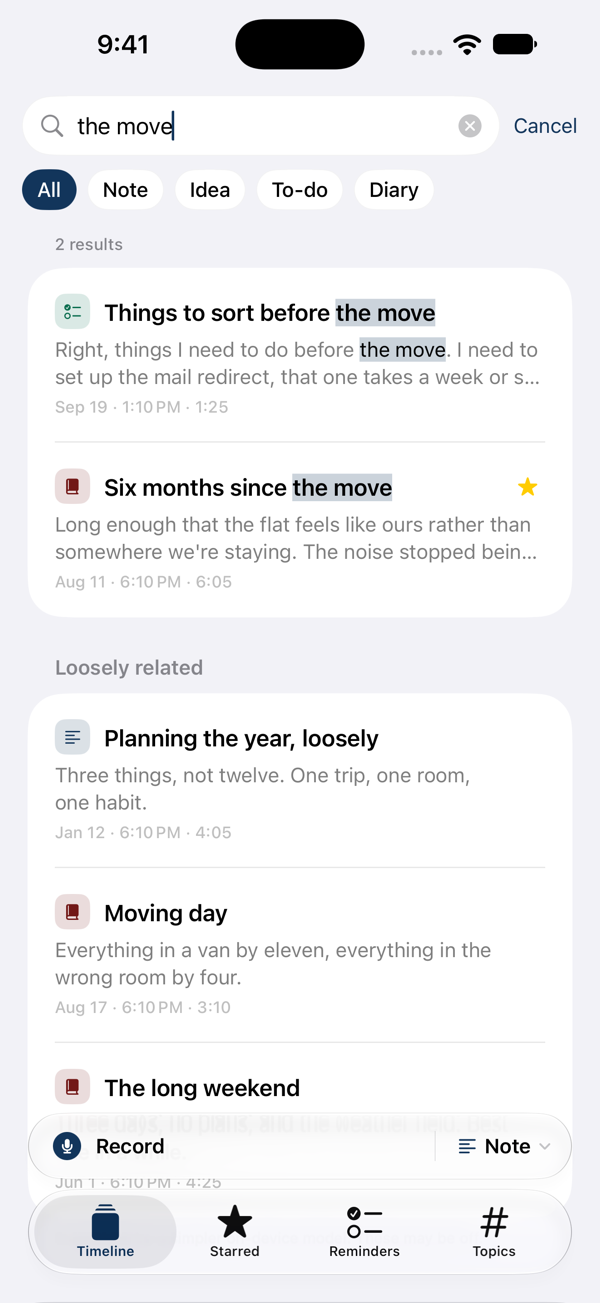
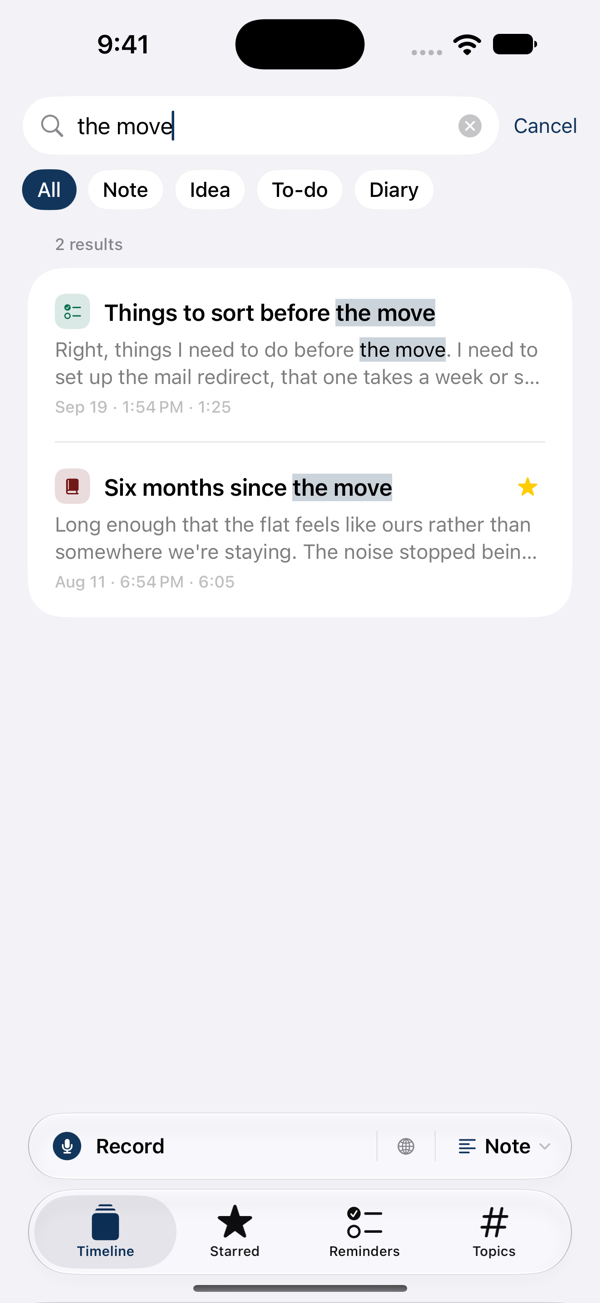
Reshoot for the language control, and update the legal pages
Every screen shows the record bar, and the record bar has a globe on it
now, so all six were out of date at once.

Privacy and Terms regenerated from LegalScreen. Three of the changes are
corrections rather than additions: Reminders no longer receives the
sentence a to-do came from, the original recording is no longer always
kept, and the free allowance counts the notes you have rather than every
recording ever made.

diff --git a/terms.html b/terms.html
@@ -45,19 +45,20 @@
   <a class="wordmark" href="/" aria-label="ideal note. &mdash; home"><svg viewBox="0 0 55 38" fill="currentColor" xmlns="http://www.w3.org/2000/svg" aria-hidden="true" focusable="false"><path d="M41.0009 36.832C39.7209 36.832 38.5929 36.536 37.6169 35.944C36.6409 35.352 35.8809 34.568 35.3369 33.592C34.8089 32.6 34.5449 31.504 34.5449 30.304C34.5449 29.104 34.8249 28.008 35.3849 27.016C35.9449 26.008 36.7049 25.208 37.6649 24.616C38.6409 24.024 39.7529 23.728 41.0009 23.728C42.2489 23.728 43.3449 24.024 44.2889 24.616C45.2489 25.208 45.9929 26.008 46.5209 27.016C47.0649 28.008 47.3369 29.104 47.3369 30.304C47.3369 30.48 47.3289 30.664 47.3129 30.856C47.2969 31.048 47.2729 31.248 47.2409 31.456H37.9049C38.0809 32.192 38.4329 32.792 38.9609 33.256C39.5049 33.72 40.1849 33.952 41.0009 33.952C41.7049 33.952 42.3129 33.792 42.8249 33.472C43.3529 33.152 43.7609 32.752 44.0489 32.272L46.5689 34.168C46.0729 34.952 45.3289 35.592 44.3369 36.088C43.3449 36.584 42.2329 36.832 41.0009 36.832ZM40.9529 26.512C40.1849 26.512 39.5289 26.744 38.9849 27.208C38.4409 27.672 38.0809 28.28 37.9049 29.032H44.0729C43.8969 28.344 43.5289 27.752 42.9689 27.256C42.4249 26.76 41.7529 26.512 40.9529 26.512Z"/><path d="M32.2047 36.5201C30.9727 36.5201 30.0287 36.2161 29.3727 35.6081C28.7167 35.0001 28.3887 34.0161 28.3887 32.6561V26.8001H26.6367V24.0401H28.3887V21.5201L31.6287 21.1841V24.0401H34.2687V26.8001H31.6287V32.4881C31.6287 33.2561 31.9647 33.6401 32.6367 33.6401H33.9807V36.5201H32.2047Z"/><path d="M20.0757 36.832C18.7957 36.832 17.6517 36.536 16.6437 35.944C15.6357 35.352 14.8437 34.568 14.2677 33.592C13.7077 32.6 13.4277 31.504 13.4277 30.304C13.4277 29.104 13.7077 28.008 14.2677 27.016C14.8437 26.024 15.6357 25.232 16.6437 24.64C17.6517 24.048 18.7957 23.752 20.0757 23.752C21.3717 23.752 22.5157 24.048 23.5077 24.64C24.5157 25.232 25.2997 26.024 25.8597 27.016C26.4357 28.008 26.7237 29.104 26.7237 30.304C26.7237 31.504 26.4357 32.6 25.8597 33.592C25.2997 34.568 24.5157 35.352 23.5077 35.944C22.5157 36.536 21.3717 36.832 20.0757 36.832ZM20.0757 33.88C20.7637 33.88 21.3637 33.72 21.8757 33.4C22.3877 33.064 22.7797 32.624 23.0517 32.08C23.3397 31.536 23.4837 30.944 23.4837 30.304C23.4837 29.648 23.3397 29.048 23.0517 28.504C22.7797 27.96 22.3877 27.528 21.8757 27.208C21.3637 26.872 20.7637 26.704 20.0757 26.704C19.3877 26.704 18.7877 26.872 18.2757 27.208C17.7637 27.528 17.3637 27.96 17.0757 28.504C16.8037 29.048 16.6677 29.648 16.6677 30.304C16.6677 30.944 16.8037 31.536 17.0757 32.08C17.3637 32.624 17.7637 33.064 18.2757 33.4C18.7877 33.72 19.3877 33.88 20.0757 33.88Z"/><path d="M0.337891 36.52V24.04H3.52989V25.864C4.18589 24.456 5.45789 23.752 7.34589 23.752C8.24189 23.752 9.04989 23.96 9.76989 24.376C10.4899 24.792 11.0579 25.384 11.4739 26.152C11.8899 26.92 12.0979 27.832 12.0979 28.888V36.52H8.85789V29.68C8.85789 28.592 8.60989 27.808 8.11389 27.328C7.61789 26.832 6.96989 26.584 6.16989 26.584C5.48189 26.584 4.87389 26.832 4.34589 27.328C3.83389 27.808 3.57789 28.592 3.57789 29.68V36.52H0.337891Z"/><path d="M48.6426 17.52V0H51.8826V17.52H48.6426Z"/><path d="M39.541 17.8319C38.405 17.8319 37.365 17.5439 36.421 16.9679C35.493 16.3759 34.749 15.5919 34.189 14.6159C33.645 13.6239 33.373 12.5279 33.373 11.3279C33.373 10.4319 33.533 9.59188 33.853 8.80788C34.173 8.00788 34.613 7.31188 35.173 6.71988C35.733 6.11188 36.381 5.63988 37.117 5.30388C37.869 4.95188 38.677 4.77588 39.541 4.77588C40.629 4.77588 41.477 4.98388 42.085 5.39988C42.693 5.79988 43.165 6.33588 43.501 7.00788V5.03988H46.717V17.5199H43.573V15.4799C43.237 16.1839 42.757 16.7519 42.133 17.1839C41.525 17.6159 40.661 17.8319 39.541 17.8319ZM40.069 14.9039C40.789 14.9039 41.405 14.7439 41.917 14.4239C42.445 14.0879 42.853 13.6479 43.141 13.1039C43.429 12.5599 43.573 11.9679 43.573 11.3279C43.573 10.6719 43.429 10.0719 43.141 9.52788C42.853 8.98388 42.445 8.54388 41.917 8.20788C41.405 7.87188 40.789 7.70388 40.069 7.70388C39.381 7.70388 38.773 7.87188 38.245 8.20788C37.733 8.52788 37.333 8.95988 37.045 9.50388C36.757 10.0479 36.613 10.6479 36.613 11.3039C36.613 11.9279 36.757 12.5199 37.045 13.0799C37.333 13.6239 37.733 14.0639 38.245 14.3999C38.773 14.7359 39.381 14.9039 40.069 14.9039Z"/><path d="M26.2587 17.832C24.9787 17.832 23.8507 17.536 22.8747 16.944C21.8987 16.352 21.1387 15.568 20.5947 14.592C20.0667 13.6 19.8027 12.504 19.8027 11.304C19.8027 10.104 20.0827 9.00803 20.6427 8.01603C21.2027 7.00803 21.9627 6.20803 22.9227 5.61603C23.8987 5.02403 25.0107 4.72803 26.2587 4.72803C27.5067 4.72803 28.6027 5.02403 29.5467 5.61603C30.5067 6.20803 31.2507 7.00803 31.7787 8.01603C32.3227 9.00803 32.5947 10.104 32.5947 11.304C32.5947 11.48 32.5867 11.664 32.5707 11.856C32.5547 12.048 32.5307 12.248 32.4987 12.456H23.1627C23.3387 13.192 23.6907 13.792 24.2187 14.256C24.7627 14.72 25.4427 14.952 26.2587 14.952C26.9627 14.952 27.5707 14.792 28.0827 14.472C28.6107 14.152 29.0187 13.752 29.3067 13.272L31.8267 15.168C31.3307 15.952 30.5867 16.592 29.5947 17.088C28.6027 17.584 27.4907 17.832 26.2587 17.832ZM26.2107 7.51203C25.4427 7.51203 24.7867 7.74403 24.2427 8.20803C23.6987 8.67203 23.3387 9.28003 23.1627 10.032H29.3307C29.1547 9.34403 28.7867 8.75203 28.2267 8.25603C27.6827 7.76003 27.0107 7.51203 26.2107 7.51203Z"/><path d="M11.1817 17.832C10.0457 17.832 9.00567 17.544 8.06167 16.968C7.13367 16.376 6.38967 15.592 5.82967 14.616C5.28567 13.624 5.01367 12.528 5.01367 11.328C5.01367 10.432 5.17367 9.592 5.49367 8.808C5.81367 8.008 6.25367 7.312 6.81367 6.72C7.37367 6.112 8.02167 5.64 8.75767 5.304C9.50967 4.952 10.3177 4.776 11.1817 4.776C12.2537 4.776 13.0937 4.976 13.7017 5.376C14.3097 5.776 14.7817 6.304 15.1177 6.96V0H18.3577V17.52H15.2137V15.48C14.8777 16.184 14.3977 16.752 13.7737 17.184C13.1657 17.616 12.3017 17.832 11.1817 17.832ZM11.7097 14.904C12.4297 14.904 13.0457 14.744 13.5577 14.424C14.0857 14.088 14.4937 13.648 14.7817 13.104C15.0697 12.56 15.2137 11.968 15.2137 11.328C15.2137 10.672 15.0697 10.072 14.7817 9.528C14.4937 8.984 14.0857 8.544 13.5577 8.208C13.0457 7.872 12.4297 7.704 11.7097 7.704C11.0217 7.704 10.4137 7.872 9.88567 8.208C9.37367 8.528 8.97367 8.96 8.68567 9.504C8.39767 10.048 8.25367 10.648 8.25367 11.304C8.25367 11.928 8.39767 12.52 8.68567 13.08C8.97367 13.624 9.37367 14.064 9.88567 14.4C10.4137 14.736 11.0217 14.904 11.7097 14.904Z"/><path d="M1.944 4.00789C1.4 4.00789 0.936 3.82389 0.552 3.45589C0.184 3.0719 0 2.6159 0 2.0879C0 1.5759 0.184 1.1359 0.552 0.767896C0.936 0.383895 1.4 0.191895 1.944 0.191895C2.504 0.191895 2.968 0.383895 3.336 0.767896C3.704 1.1359 3.888 1.5759 3.888 2.0879C3.888 2.6319 3.704 3.08789 3.336 3.45589C2.968 3.82389 2.504 4.00789 1.944 4.00789ZM0.336 17.5199V5.03989H3.576V17.5199H0.336Z"/><path d="M51.1362 32.2891C49.4212 32.5929 48.2699 34.6012 49.0139 35.9944C49.3979 36.792 49.6851 36.9382 50.8297 36.9324C51.6183 36.9215 52.5961 36.5621 53.1763 36.0699C54.0812 35.2612 54.1075 35.1495 53.88 33.8385C53.6362 32.4451 52.7922 31.9322 51.1362 32.2891Z"/></svg></a>
   <section>
     <h1>Terms</h1>
-    <p class="updated">Last updated 21 September 2026</p>
+    <p class="updated">Last updated 22 September 2026</p>
       <h2>Using ideal note</h2>
       <p>ideal note is for keeping your own notes. What you record is your responsibility, including following whatever the law where you live says about recording other people.</p>
       <h2>Your notes are yours</h2>
       <p>The recordings and notes you make belong to you. They live on your device. We claim no rights over them and have no way to read them.</p>
       <h2>Transcription isn’t perfect</h2>
-      <p>Speech recognition mishears things. Summaries are written by a language model and can be wrong or leave things out. Treat them as a convenience rather than a record. The original recording is always kept, so you can check what was actually said.</p>
+      <p>Speech recognition mishears things, and mishears them more when a recording is noisy or in a language whose model isn’t downloaded. Summaries are written by a language model and can be wrong or leave things out. Treat them as a convenience rather than a record. The original recording is kept by default so you can check what was actually said; if you turn “Keep recordings” off, only the words remain.</p>
       <h2>Not professional advice</h2>
       <p>Nothing in the app is medical, legal, financial or psychological advice, and none of it replaces a professional.</p>
       <h2>Keep your own backups</h2>
       <p>Your notes live only on this device. Deleting the app, losing the phone or resetting it will lose them. Use an encrypted device backup if they matter to you.</p>
       <h2>Subscription</h2>
-      <p>The first 250 recordings are free, and a free recording can run up to thirty minutes. Recording beyond either needs a monthly subscription, which renews until you cancel and takes a single recording up to two hours. Your notes stay readable and searchable either way. Cancel any time in Settings, under your Apple Account.</p>
+      <p>Keeping 250 notes is free, and a free recording can run up to thirty minutes. The count is of the notes you have, not of every recording ever made, so deleting notes makes room for new ones.</p>
+      <p>Going past either needs a monthly subscription, which renews until you cancel. It lifts the limit on how many notes you keep, takes a single recording up to two hours, lets you make your own reminder lists, and lets you clear a recording’s audio once the note is written. Your notes stay readable and searchable whether or not you subscribe. Cancel any time in Settings, under your Apple Account.</p>
       <h2>No warranty</h2>
       <p>ideal note is provided as it is, without warranties of any kind. As far as the law allows, we aren’t liable for loss arising from using it, including lost recordings or notes.</p>
       <h2>Changes</h2>

diff --git a/privacy.html b/privacy.html
@@ -45,17 +45,18 @@
   <a class="wordmark" href="/" aria-label="ideal note. &mdash; home"><svg viewBox="0 0 55 38" fill="currentColor" xmlns="http://www.w3.org/2000/svg" aria-hidden="true" focusable="false"><path d="M41.0009 36.832C39.7209 36.832 38.5929 36.536 37.6169 35.944C36.6409 35.352 35.8809 34.568 35.3369 33.592C34.8089 32.6 34.5449 31.504 34.5449 30.304C34.5449 29.104 34.8249 28.008 35.3849 27.016C35.9449 26.008 36.7049 25.208 37.6649 24.616C38.6409 24.024 39.7529 23.728 41.0009 23.728C42.2489 23.728 43.3449 24.024 44.2889 24.616C45.2489 25.208 45.9929 26.008 46.5209 27.016C47.0649 28.008 47.3369 29.104 47.3369 30.304C47.3369 30.48 47.3289 30.664 47.3129 30.856C47.2969 31.048 47.2729 31.248 47.2409 31.456H37.9049C38.0809 32.192 38.4329 32.792 38.9609 33.256C39.5049 33.72 40.1849 33.952 41.0009 33.952C41.7049 33.952 42.3129 33.792 42.8249 33.472C43.3529 33.152 43.7609 32.752 44.0489 32.272L46.5689 34.168C46.0729 34.952 45.3289 35.592 44.3369 36.088C43.3449 36.584 42.2329 36.832 41.0009 36.832ZM40.9529 26.512C40.1849 26.512 39.5289 26.744 38.9849 27.208C38.4409 27.672 38.0809 28.28 37.9049 29.032H44.0729C43.8969 28.344 43.5289 27.752 42.9689 27.256C42.4249 26.76 41.7529 26.512 40.9529 26.512Z"/><path d="M32.2047 36.5201C30.9727 36.5201 30.0287 36.2161 29.3727 35.6081C28.7167 35.0001 28.3887 34.0161 28.3887 32.6561V26.8001H26.6367V24.0401H28.3887V21.5201L31.6287 21.1841V24.0401H34.2687V26.8001H31.6287V32.4881C31.6287 33.2561 31.9647 33.6401 32.6367 33.6401H33.9807V36.5201H32.2047Z"/><path d="M20.0757 36.832C18.7957 36.832 17.6517 36.536 16.6437 35.944C15.6357 35.352 14.8437 34.568 14.2677 33.592C13.7077 32.6 13.4277 31.504 13.4277 30.304C13.4277 29.104 13.7077 28.008 14.2677 27.016C14.8437 26.024 15.6357 25.232 16.6437 24.64C17.6517 24.048 18.7957 23.752 20.0757 23.752C21.3717 23.752 22.5157 24.048 23.5077 24.64C24.5157 25.232 25.2997 26.024 25.8597 27.016C26.4357 28.008 26.7237 29.104 26.7237 30.304C26.7237 31.504 26.4357 32.6 25.8597 33.592C25.2997 34.568 24.5157 35.352 23.5077 35.944C22.5157 36.536 21.3717 36.832 20.0757 36.832ZM20.0757 33.88C20.7637 33.88 21.3637 33.72 21.8757 33.4C22.3877 33.064 22.7797 32.624 23.0517 32.08C23.3397 31.536 23.4837 30.944 23.4837 30.304C23.4837 29.648 23.3397 29.048 23.0517 28.504C22.7797 27.96 22.3877 27.528 21.8757 27.208C21.3637 26.872 20.7637 26.704 20.0757 26.704C19.3877 26.704 18.7877 26.872 18.2757 27.208C17.7637 27.528 17.3637 27.96 17.0757 28.504C16.8037 29.048 16.6677 29.648 16.6677 30.304C16.6677 30.944 16.8037 31.536 17.0757 32.08C17.3637 32.624 17.7637 33.064 18.2757 33.4C18.7877 33.72 19.3877 33.88 20.0757 33.88Z"/><path d="M0.337891 36.52V24.04H3.52989V25.864C4.18589 24.456 5.45789 23.752 7.34589 23.752C8.24189 23.752 9.04989 23.96 9.76989 24.376C10.4899 24.792 11.0579 25.384 11.4739 26.152C11.8899 26.92 12.0979 27.832 12.0979 28.888V36.52H8.85789V29.68C8.85789 28.592 8.60989 27.808 8.11389 27.328C7.61789 26.832 6.96989 26.584 6.16989 26.584C5.48189 26.584 4.87389 26.832 4.34589 27.328C3.83389 27.808 3.57789 28.592 3.57789 29.68V36.52H0.337891Z"/><path d="M48.6426 17.52V0H51.8826V17.52H48.6426Z"/><path d="M39.541 17.8319C38.405 17.8319 37.365 17.5439 36.421 16.9679C35.493 16.3759 34.749 15.5919 34.189 14.6159C33.645 13.6239 33.373 12.5279 33.373 11.3279C33.373 10.4319 33.533 9.59188 33.853 8.80788C34.173 8.00788 34.613 7.31188 35.173 6.71988C35.733 6.11188 36.381 5.63988 37.117 5.30388C37.869 4.95188 38.677 4.77588 39.541 4.77588C40.629 4.77588 41.477 4.98388 42.085 5.39988C42.693 5.79988 43.165 6.33588 43.501 7.00788V5.03988H46.717V17.5199H43.573V15.4799C43.237 16.1839 42.757 16.7519 42.133 17.1839C41.525 17.6159 40.661 17.8319 39.541 17.8319ZM40.069 14.9039C40.789 14.9039 41.405 14.7439 41.917 14.4239C42.445 14.0879 42.853 13.6479 43.141 13.1039C43.429 12.5599 43.573 11.9679 43.573 11.3279C43.573 10.6719 43.429 10.0719 43.141 9.52788C42.853 8.98388 42.445 8.54388 41.917 8.20788C41.405 7.87188 40.789 7.70388 40.069 7.70388C39.381 7.70388 38.773 7.87188 38.245 8.20788C37.733 8.52788 37.333 8.95988 37.045 9.50388C36.757 10.0479 36.613 10.6479 36.613 11.3039C36.613 11.9279 36.757 12.5199 37.045 13.0799C37.333 13.6239 37.733 14.0639 38.245 14.3999C38.773 14.7359 39.381 14.9039 40.069 14.9039Z"/><path d="M26.2587 17.832C24.9787 17.832 23.8507 17.536 22.8747 16.944C21.8987 16.352 21.1387 15.568 20.5947 14.592C20.0667 13.6 19.8027 12.504 19.8027 11.304C19.8027 10.104 20.0827 9.00803 20.6427 8.01603C21.2027 7.00803 21.9627 6.20803 22.9227 5.61603C23.8987 5.02403 25.0107 4.72803 26.2587 4.72803C27.5067 4.72803 28.6027 5.02403 29.5467 5.61603C30.5067 6.20803 31.2507 7.00803 31.7787 8.01603C32.3227 9.00803 32.5947 10.104 32.5947 11.304C32.5947 11.48 32.5867 11.664 32.5707 11.856C32.5547 12.048 32.5307 12.248 32.4987 12.456H23.1627C23.3387 13.192 23.6907 13.792 24.2187 14.256C24.7627 14.72 25.4427 14.952 26.2587 14.952C26.9627 14.952 27.5707 14.792 28.0827 14.472C28.6107 14.152 29.0187 13.752 29.3067 13.272L31.8267 15.168C31.3307 15.952 30.5867 16.592 29.5947 17.088C28.6027 17.584 27.4907 17.832 26.2587 17.832ZM26.2107 7.51203C25.4427 7.51203 24.7867 7.74403 24.2427 8.20803C23.6987 8.67203 23.3387 9.28003 23.1627 10.032H29.3307C29.1547 9.34403 28.7867 8.75203 28.2267 8.25603C27.6827 7.76003 27.0107 7.51203 26.2107 7.51203Z"/><path d="M11.1817 17.832C10.0457 17.832 9.00567 17.544 8.06167 16.968C7.13367 16.376 6.38967 15.592 5.82967 14.616C5.28567 13.624 5.01367 12.528 5.01367 11.328C5.01367 10.432 5.17367 9.592 5.49367 8.808C5.81367 8.008 6.25367 7.312 6.81367 6.72C7.37367 6.112 8.02167 5.64 8.75767 5.304C9.50967 4.952 10.3177 4.776 11.1817 4.776C12.2537 4.776 13.0937 4.976 13.7017 5.376C14.3097 5.776 14.7817 6.304 15.1177 6.96V0H18.3577V17.52H15.2137V15.48C14.8777 16.184 14.3977 16.752 13.7737 17.184C13.1657 17.616 12.3017 17.832 11.1817 17.832ZM11.7097 14.904C12.4297 14.904 13.0457 14.744 13.5577 14.424C14.0857 14.088 14.4937 13.648 14.7817 13.104C15.0697 12.56 15.2137 11.968 15.2137 11.328C15.2137 10.672 15.0697 10.072 14.7817 9.528C14.4937 8.984 14.0857 8.544 13.5577 8.208C13.0457 7.872 12.4297 7.704 11.7097 7.704C11.0217 7.704 10.4137 7.872 9.88567 8.208C9.37367 8.528 8.97367 8.96 8.68567 9.504C8.39767 10.048 8.25367 10.648 8.25367 11.304C8.25367 11.928 8.39767 12.52 8.68567 13.08C8.97367 13.624 9.37367 14.064 9.88567 14.4C10.4137 14.736 11.0217 14.904 11.7097 14.904Z"/><path d="M1.944 4.00789C1.4 4.00789 0.936 3.82389 0.552 3.45589C0.184 3.0719 0 2.6159 0 2.0879C0 1.5759 0.184 1.1359 0.552 0.767896C0.936 0.383895 1.4 0.191895 1.944 0.191895C2.504 0.191895 2.968 0.383895 3.336 0.767896C3.704 1.1359 3.888 1.5759 3.888 2.0879C3.888 2.6319 3.704 3.08789 3.336 3.45589C2.968 3.82389 2.504 4.00789 1.944 4.00789ZM0.336 17.5199V5.03989H3.576V17.5199H0.336Z"/><path d="M51.1362 32.2891C49.4212 32.5929 48.2699 34.6012 49.0139 35.9944C49.3979 36.792 49.6851 36.9382 50.8297 36.9324C51.6183 36.9215 52.5961 36.5621 53.1763 36.0699C54.0812 35.2612 54.1075 35.1495 53.88 33.8385C53.6362 32.4451 52.7922 31.9322 51.1362 32.2891Z"/></svg></a>
   <section>
     <h1>Privacy Policy</h1>
-    <p class="updated">Last updated 21 September 2026</p>
+    <p class="updated">Last updated 22 September 2026</p>
       <h2>In short</h2>
       <p>ideal note has no account and no server. Everything you record is handled on your iPhone and stays there. Nothing is uploaded, and nobody else can read it.</p>
       <h2>What is stored</h2>
       <p>Your recordings, their transcripts, the notes written from them, topics, reminders and your settings. All of it sits in the app’s own storage on this device. Delete the app and it goes with it.</p>
       <h2>How transcription works</h2>
-      <p>Speech becomes text using Apple’s on-device speech recognition. Notes are written by Apple Intelligence on your iPhone, or by a simpler built-in summariser when Apple Intelligence isn’t available. Neither one sends your audio or your words off the device.</p>
+      <p>Speech becomes text using Apple’s speech recognition, which ideal note requires to run on the device rather than through Apple’s servers. Notes are written by Apple Intelligence on your iPhone, or by a simpler built-in summariser when Apple Intelligence isn’t available. Neither one sends your audio or your words off the device.</p>
+      <p>Which language you are speaking is either chosen by you or worked out on the iPhone, by transcribing the opening of a recording in each language the phone is set up for and keeping whichever came out most confident. That happens locally, like everything else, and the shortlist is read from your own Language &amp; Region settings.</p>
       <h2>Permissions</h2>
       <p>Microphone, so ideal note can record. Speech recognition, so it can turn what you said into text you can search. Reminders, only if you switch on syncing, and only to add, tick off and remove the to-dos you choose to keep. You can withdraw any of these in iOS Settings whenever you like.</p>
       <h2>Apple Reminders</h2>
-      <p>With syncing on, the to-dos you keep are written into Apple Reminders along with the sentence they came from. From there they travel through your own iCloud account, under Apple’s privacy policy rather than this one. Syncing stays off until you turn it on.</p>
+      <p>With syncing on, the to-dos you keep are written into Apple Reminders — the task itself and its due date, and nothing else. The sentence you said it in stays in ideal note. From there they travel through your own iCloud account, under Apple’s privacy policy rather than this one. Making a list creates a real list in Apple Reminders, which syncs the same way. Syncing stays off until you turn it on.</p>
       <h2>What never happens</h2>
       <p>No tracking. No advertising identifiers. No analytics. Nothing is sold and nothing is shared. Your notes never reach us, under any circumstances.</p>
       <h2>Children</h2>

diff --git a/index.html b/index.html
@@ -366,7 +366,7 @@
       <div class="phone"><img loading="lazy" decoding="async" src="assets/record.png" width="600" height="1303" alt="Recording in progress, with a timer and a live transcript."></div>
       <div class="phone"><img loading="lazy" decoding="async" src="assets/transcript.png" width="600" height="1303" alt="A finished to-do note with its summary, detected reminders, transcript and topics."></div>
       <div class="phone"><img loading="lazy" decoding="async" src="assets/reminders.png" width="600" height="1303" alt="The Reminders tab, with to-dos grouped into Home, Work and Reminders lists."></div>
-      <div class="phone"><img loading="lazy" decoding="async" src="assets/search.png" width="600" height="1303" alt="Search results for “the move”: two exact matches with the words highlighted, then loosely related notes found by meaning."></div>
+      <div class="phone"><img loading="lazy" decoding="async" src="assets/search.png" width="600" height="1303" alt="Search results for “the move”, with the matching words highlighted in two notes."></div>
       <div class="phone"><img loading="lazy" decoding="async" src="assets/year.png" width="600" height="1303" alt="Year in review: notes captured, hours recorded, a monthly rhythm and a streak."></div>
       <div class="phone"><img loading="lazy" decoding="async" src="assets/settings.png" width="600" height="1303" alt="Settings, showing Apple Reminders sync, microphone permission, and how much audio is stored on the iPhone."></div>
     </div>
